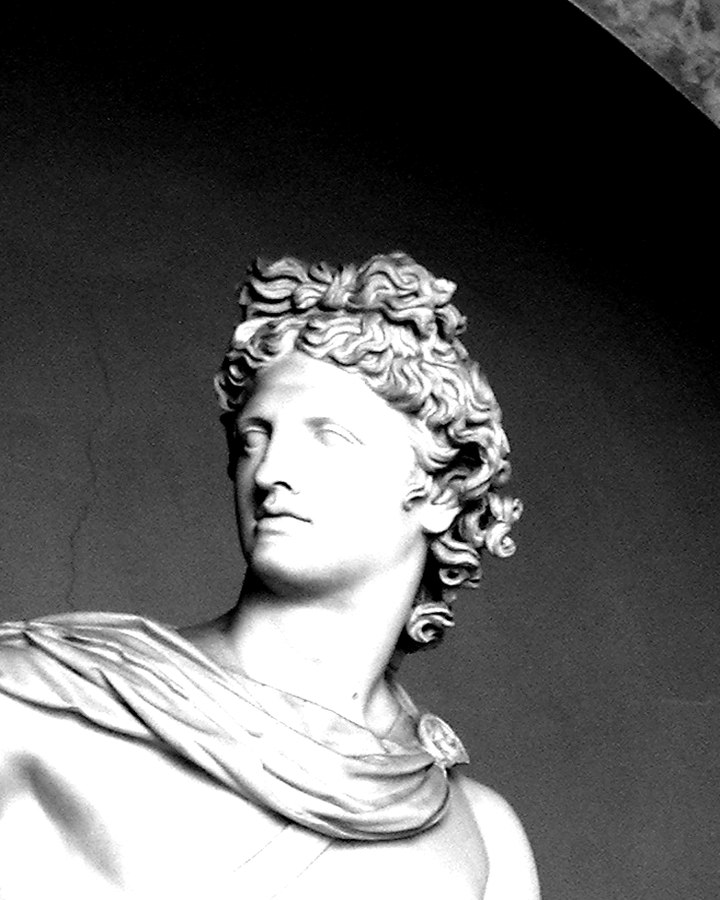
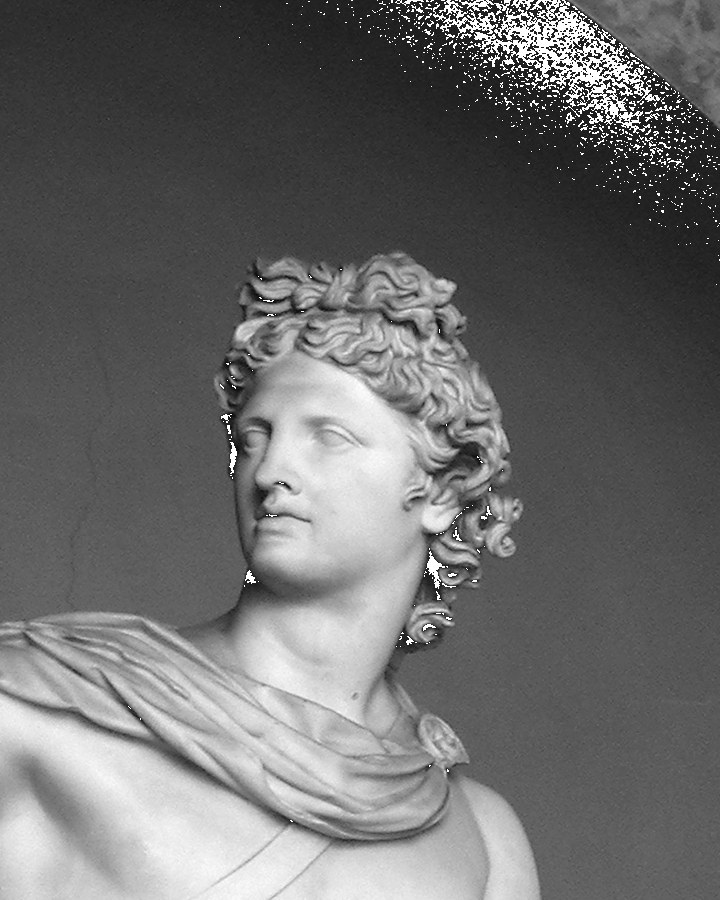
Plant the duck on the poster plinths and keep the stage pinned
Split the bust behind the robot, pin the 430px stage while you scroll, and drop the product shot onto the stone so the first frame matches the magazine layout.

diff --git a/components/poster/PosterChrome.tsx b/components/poster/PosterChrome.tsx
@@ -1,5 +1,6 @@
 "use client";
 
+import type { ReactNode } from "react";
 import { POSTER } from "@/lib/poster";
 import { assetPath } from "@/lib/paths";
 import { useExperience } from "@/components/providers/ExperienceProvider";
@@ -38,22 +39,32 @@ function Leaf() {
   );
 }
 
-export function PosterChrome() {
+function Fade({
+  children,
+  className,
+  z,
+}: {
+  children: ReactNode;
+  className: string;
+  z: number;
+}) {
   const { progress } = useExperience();
-  const fade = Math.max(0, 1 - Math.max(0, progress - 0.04) * 3.6);
-
+  const fade = Math.max(0, 1 - Math.max(0, progress - 0.02) * 6);
   return (
-    <div
-      className="pointer-events-none absolute inset-0 z-[16] overflow-hidden"
-      style={{ opacity: fade }}
-      aria-hidden
-    >
+    <div className={className} style={{ opacity: fade, zIndex: z }} aria-hidden>
+      {children}
+    </div>
+  );
+}
+
+export function PosterBack() {
+  return (
+    <Fade className="pointer-events-none absolute inset-0 overflow-hidden" z={8}>
       <div className="poster-arch" />
       <div className="poster-blue-frame" />
       <div className="poster-leaf">
         <Leaf />
       </div>
-
       <div className="poster-bust">
         <CropMarks className="absolute inset-0" />
         <div className="poster-bust-ink">
@@ -69,7 +80,13 @@ export function PosterChrome() {
           ))}
         </p>
       </div>
+    </Fade>
+  );
+}
 
+export function PosterFront() {
+  return (
+    <Fade className="pointer-events-none absolute inset-0 overflow-hidden" z={16}>
       <div className="poster-globe">
         <Globe />
         <p>
@@ -80,11 +97,9 @@ export function PosterChrome() {
           ))}
         </p>
       </div>
-
       <div className="poster-orb-wrap">
         <div className="poster-orb" />
       </div>
-
       <div className="poster-plinth poster-plinth-main">
         <p className="font-display text-[1.7rem] leading-[0.82] tracking-tight text-[color:var(--ink)]">
           {POSTER.plinth[0]}
@@ -92,16 +107,16 @@ export function PosterChrome() {
           {POSTER.plinth[1]}
         </p>
         <span className="mt-2 block h-8 w-[2px] bg-[color:var(--cobalt)]" />
-        <p className="mt-2 max-w-[7rem] font-label text-[9px] font-semibold uppercase tracking-[0.16em] text-[color:var(--ink)]/70">
-          {POSTER.plinthSub}
+        <p className="mt-2 max-w-[6.5rem] font-label text-[9px] font-semibold uppercase leading-[1.35] tracking-[0.16em] text-[color:var(--ink)]/70">
+          Pollen
+          <br />
+          Robotics
         </p>
       </div>
-
       <div className="poster-plinth poster-plinth-side">
         {/* eslint-disable-next-line @next/next/no-img-element */}
         <img src={assetPath("/poster/hands.jpg")} alt="" className="poster-hands" />
       </div>
-
       <div className="poster-plinth poster-plinth-right">
         <p className="max-w-[8rem] font-label text-[10px] font-semibold uppercase leading-[1.28] tracking-[0.16em] text-[color:var(--cobalt)]">
           {POSTER.footer.map((line) => (
@@ -114,6 +129,6 @@ export function PosterChrome() {
           {`//  ${POSTER.year}`}
         </p>
       </div>
-    </div>
+    </Fade>
   );
 }

diff --git a/app/globals.css b/app/globals.css
@@ -101,11 +101,12 @@
     @apply font-sans;
     background: var(--paper-deep);
     color: var(--ink);
-    overflow-x: hidden;
+    overflow-x: clip;
   }
   body {
-    @apply overflow-x-hidden text-foreground;
+    @apply text-foreground;
     background: var(--paper-deep);
+    overflow-x: clip;
   }
   .font-display {
     font-family: var(--font-fraunces), ui-serif, Georgia, serif;
@@ -130,9 +131,12 @@
 }
 
 .poster-stage {
-  position: sticky;
+  position: fixed;
   top: 0;
+  left: 50%;
+  width: min(430px, 100%);
   height: 100svh;
+  margin-left: calc(min(430px, 100%) / -2);
   overflow: hidden;
   background: var(--paper);
   z-index: 1;
@@ -141,7 +145,6 @@
 .poster-story {
   position: relative;
   z-index: 20;
-  margin-top: -100svh;
   pointer-events: none;
 }
 
@@ -202,12 +205,20 @@
 }
 
 .poster-bust-ink img {
-  width: 118%;
-  height: 118%;
+  width: 125%;
+  height: 125%;
   object-fit: cover;
-  object-position: 42% 18%;
-  filter: grayscale(1) contrast(1.35) brightness(1.12);
+  object-position: 48% 8%;
+  filter: grayscale(1) contrast(1.28) brightness(1.55);
   mix-blend-mode: multiply;
+}
+
+.poster-bust-ink::after {
+  content: "";
+  position: absolute;
+  inset: 0;
+  background: linear-gradient(90deg, var(--paper) 0%, transparent 34%);
+  pointer-events: none;
 }
 
 .poster-halftone {
@@ -290,18 +301,18 @@
 }
 
 .poster-plinth-main {
-  left: 18%;
-  right: 6%;
+  left: 16%;
+  right: 5%;
   bottom: 0;
-  height: 27%;
-  padding: 1rem 0.95rem 1.3rem;
+  height: 31%;
+  padding: 0.85rem 0.95rem 1.1rem 5.2rem;
 }
 
 .poster-plinth-side {
   left: 0;
   bottom: 0;
   width: 34%;
-  height: 20%;
+  height: 23%;
   display: flex;
   align-items: flex-end;
   overflow: hidden;
@@ -312,17 +323,16 @@
   width: 100%;
   height: 100%;
   object-fit: cover;
-  object-position: 12% 88%;
-  filter: grayscale(1) contrast(1.45) brightness(1.05);
+  object-position: 18% 92%;
+  filter: grayscale(1) contrast(1.35) brightness(1.35);
   mix-blend-mode: multiply;
-  background: var(--cobalt);
 }
 
 .poster-plinth-right {
   right: 0;
   bottom: 0;
   width: 44%;
-  height: 17%;
+  height: 19%;
   padding: 0.8rem 0.9rem;
   text-align: right;
 }

diff --git a/components/overlay/Landing.tsx b/components/overlay/Landing.tsx
@@ -3,7 +3,7 @@
 import dynamic from "next/dynamic";
 import { ExperienceProvider, useExperience } from "@/components/providers/ExperienceProvider";
 import { PosterNav } from "@/components/poster/PosterNav";
-import { PosterChrome } from "@/components/poster/PosterChrome";
+import { PosterBack, PosterFront } from "@/components/poster/PosterChrome";
 import { PosterHeroCopy } from "@/components/poster/PosterHeroCopy";
 import { StoryOverlay } from "@/components/overlay/StoryOverlay";
 import { CanvasGuard } from "@/components/duck/CanvasGuard";
@@ -48,10 +48,11 @@ function DuckSlot() {
     <div
       className="absolute z-[12] overflow-hidden"
       style={{
-        top: `${18 * (1 - t)}%`,
-        left: `${18 * (1 - t)}%`,
-        right: `${7 * (1 - t)}%`,
-        bottom: `${23 * (1 - t)}%`,
+        top: `${12 * (1 - t)}%`,
+        left: `${16 * (1 - t)}%`,
+        right: `${6 * (1 - t)}%`,
+        bottom: `${22 * (1 - t)}%`,
+        transform: `translateY(${(1 - t) * 7}vh)`,
       }}
     >
       <CanvasGuard fallback={<DuckFallback />}>
@@ -70,8 +71,9 @@ function AppShell() {
       <div className="poster-stage">
         <Hatch />
         <PosterNav />
+        <PosterBack />
         <DuckSlot />
-        <PosterChrome />
+        <PosterFront />
         <PosterHeroCopy />
         <SimulatorFrame />
         <PaperGrain />

diff --git a/components/poster/PosterNav.tsx b/components/poster/PosterNav.tsx
@@ -41,7 +41,7 @@ export function PosterNav() {
           href={LINKS.store}
           target="_blank"
           rel="noreferrer"
-          className="pointer-events-auto ml-auto mt-[2px] border border-[color:var(--cobalt)] px-[8px] py-[5px] font-label text-[8px] font-semibold uppercase tracking-[0.18em] text-[color:var(--cobalt)]"
+          className="pointer-events-auto ml-auto mt-[2px] whitespace-nowrap border border-[color:var(--cobalt)] px-[8px] py-[5px] font-label text-[8px] font-semibold uppercase tracking-[0.16em] text-[color:var(--cobalt)]"
         >
           {POSTER.cta}
         </a>

diff --git a/lib/pose.ts b/lib/pose.ts
@@ -48,13 +48,13 @@ function pose(partial: Partial<Pose>): Pose {
 // Camera units are metres — the official mesh is the real 25 cm robot.
 export const POSES: Pose[] = [
   pose({
-    duckRotation: [0, 0.78, 0],
-    headPitch: 0.12,
+    duckRotation: [0, 0.62, 0],
+    headPitch: 0.08,
     beak: 0.14,
     walkAmp: 0,
-    camPos: [0.2, 0.13, 0.4],
-    lookAt: [0.01, 0.12, 0],
-    fov: 30,
+    camPos: [0.3, 0.2, 0.7],
+    lookAt: [0.03, 0.2, 0],
+    fov: 28,
   }),
   pose({
     duckRotation: [0, 0.12, 0],

diff --git a/components/duck/DuckCanvas.tsx b/components/duck/DuckCanvas.tsx
@@ -29,7 +29,7 @@ export function DuckCanvas() {
       <div className="h-full w-full transition-opacity duration-500" style={{ opacity }}>
         <Canvas
           className="h-full w-full"
-          camera={{ position: [0.22, 0.14, 0.4], fov: 30, near: 0.02, far: 12 }}
+          camera={{ position: [0.3, 0.2, 0.7], fov: 28, near: 0.02, far: 12 }}
           dpr={dpr}
           shadows
           gl={{
